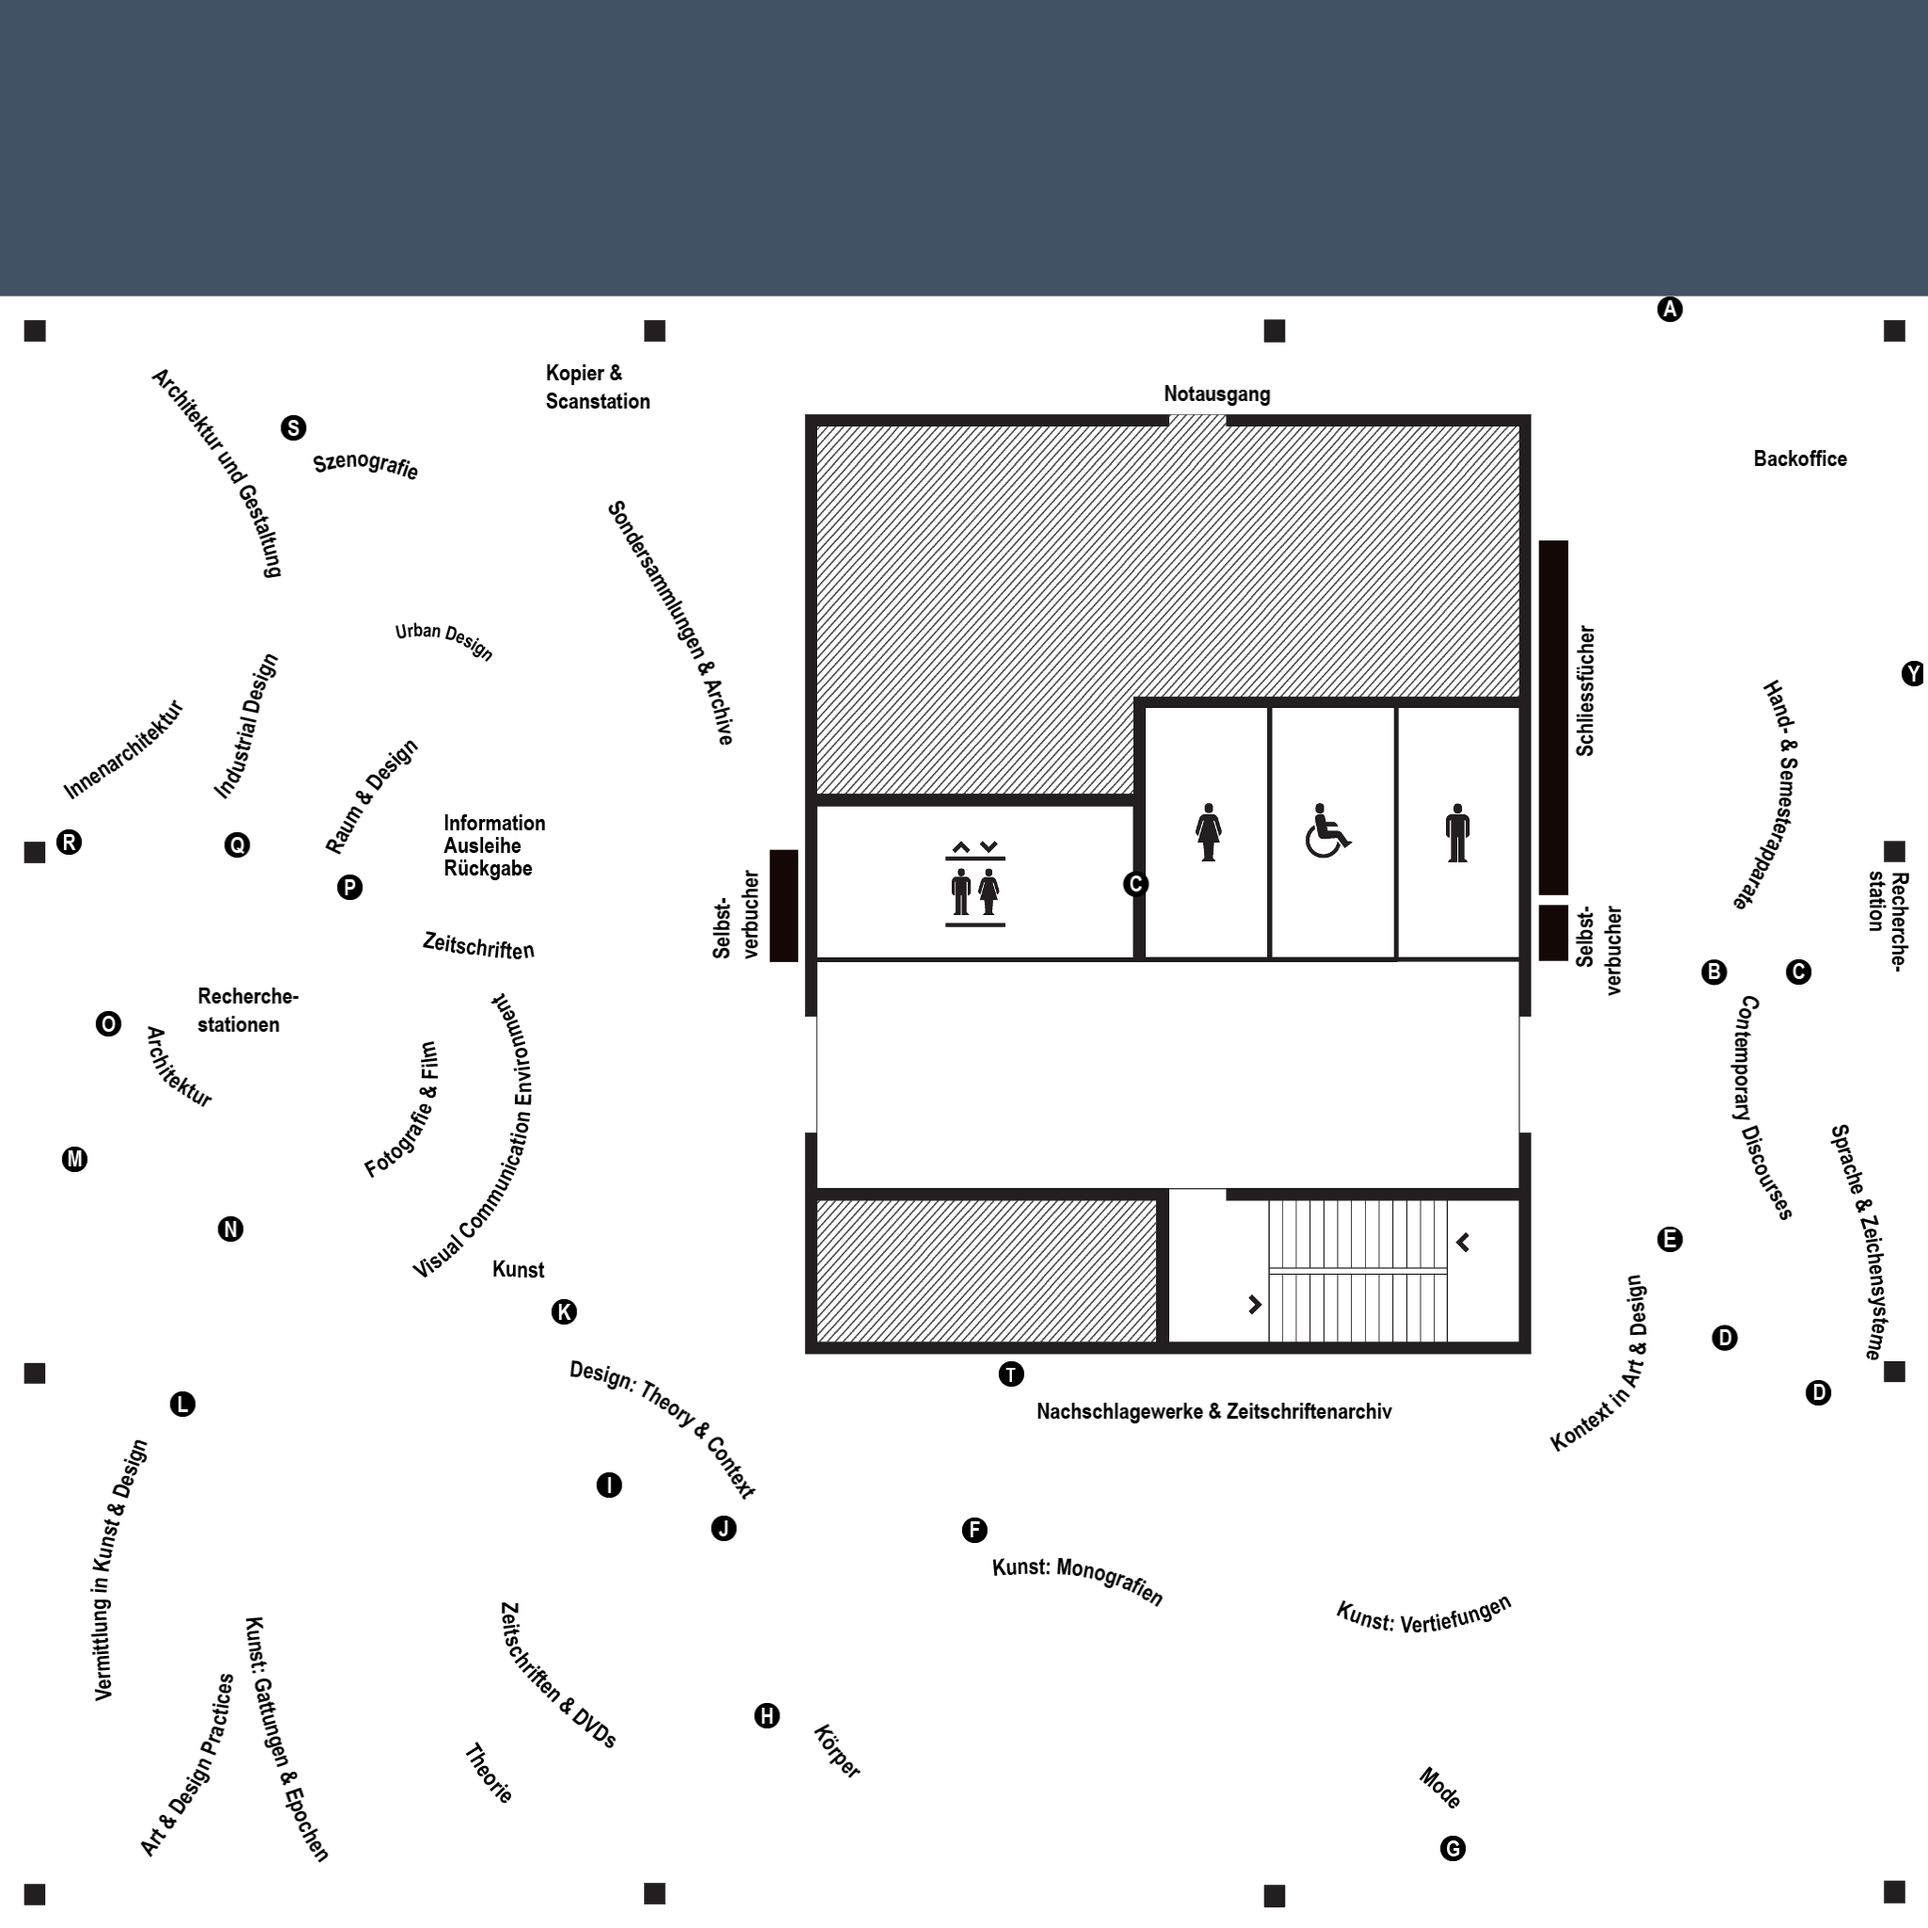
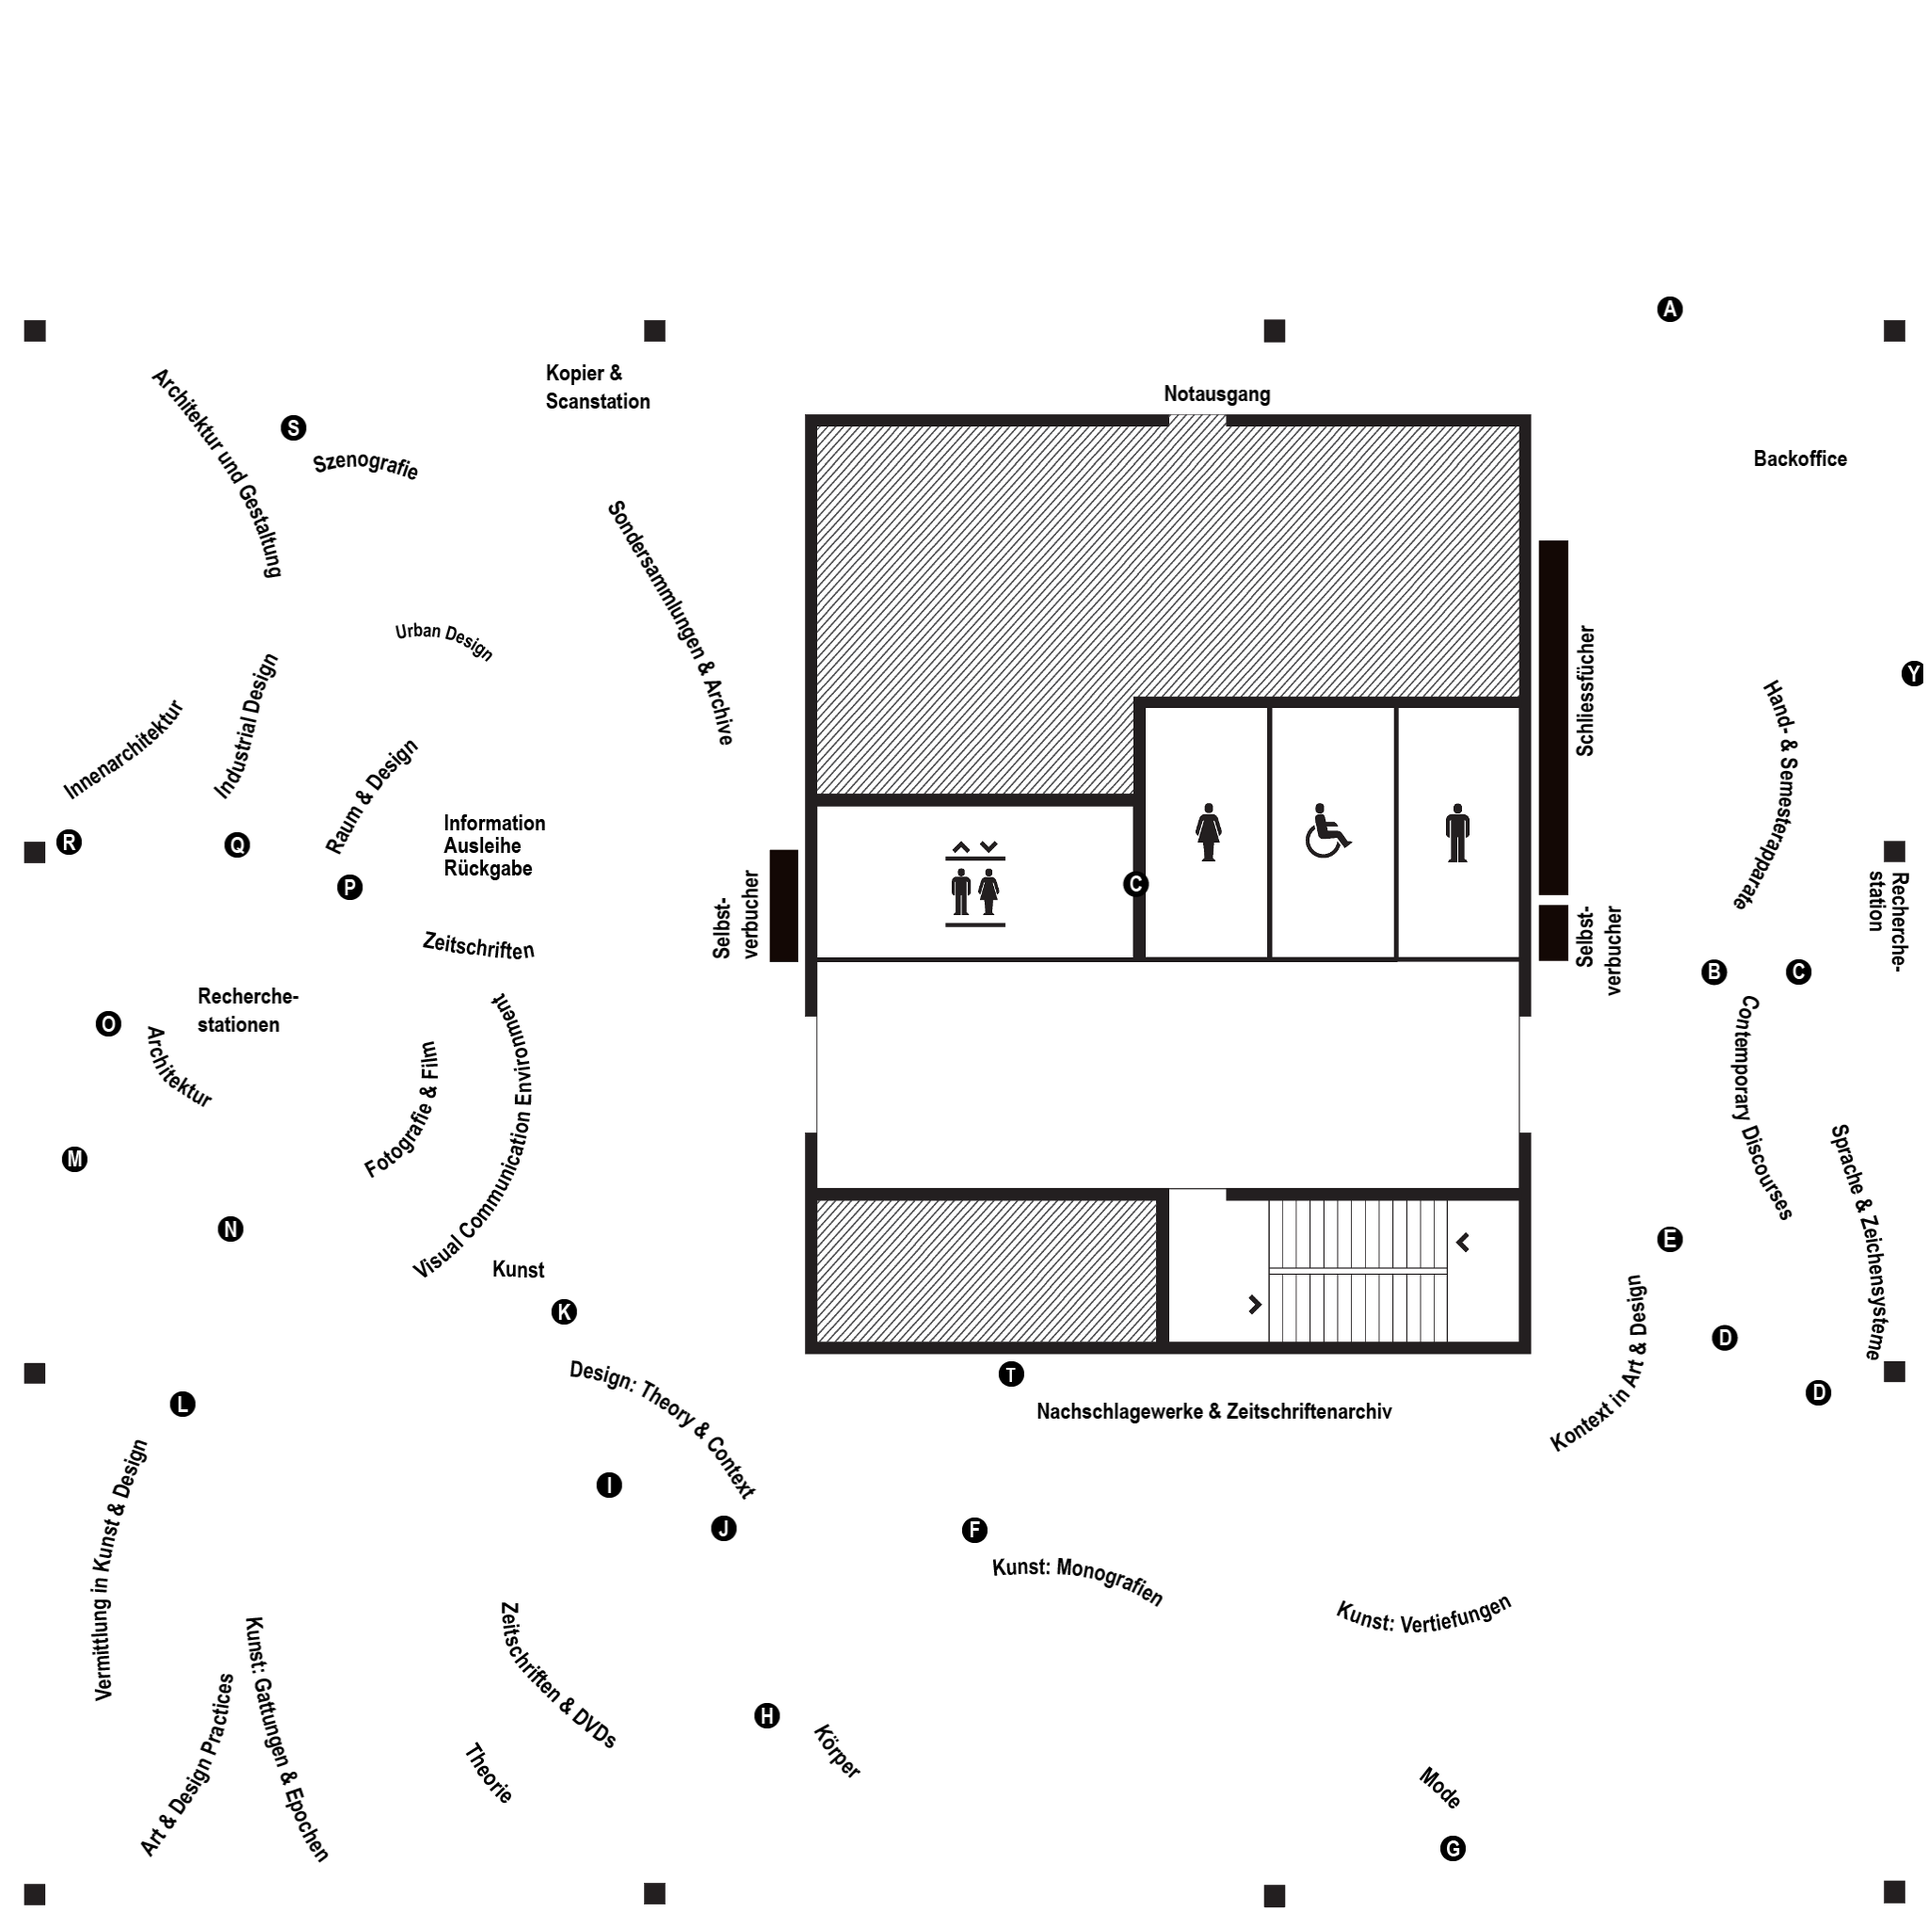
Add help modal keyboard shortcut and fix visibility

Changed region(s): [[0.0, 0.0, 1.0, 0.1562]]

diff --git a/pkg/web/static/js/modules/ui-controller.js b/pkg/web/static/js/modules/ui-controller.js
@@ -204,6 +204,12 @@ export class UIController {
                 if (typeof this.options.onCycleTheme === 'function') {
                     this.options.onCycleTheme();
                 }
+            } else if (e.key === 'h' || e.key === 'H' || e.key === '?') {
+                const isVisible = this.dom.helpModal &&
+                    !this.dom.helpModal.classList.contains('d-none') &&
+                    !this.dom.helpModal.classList.contains('hidden') &&
+                    this.dom.helpModal.style.display !== 'none';
+                this.showHelpModal(!isVisible);
             } else if (e.key === '/') {
                 e.preventDefault();
                 if (this.dom.searchInput) {
@@ -349,8 +355,10 @@ export class UIController {
     showHelpModal(show = true) {
         if (!this.dom.helpModal) return;
         if (show) {
+            this.dom.helpModal.style.display = 'flex';
             this.dom.helpModal.classList.remove('d-none', 'hidden');
         } else {
+            this.dom.helpModal.style.display = 'none';
             this.dom.helpModal.classList.add('d-none', 'hidden');
         }
     }

diff --git a/pkg/web/static/js/mediathek-core.js b/pkg/web/static/js/mediathek-core.js
@@ -150,7 +150,7 @@ class Mediathek {
 
         if (this.options.shadows) {
             this.renderer.shadowMap.enabled = true;
-            this.renderer.shadowMap.type = THREE.PCFSoftShadowMap;
+            this.renderer.shadowMap.type = THREE.PCFShadowMap;
         }
 
         // Clear existing canvas in container if any

diff --git a/pkg/web/static/scss/_modals.scss b/pkg/web/static/scss/_modals.scss
@@ -11,10 +11,15 @@
     background: rgba(0, 0, 0, 0.7);
     backdrop-filter: blur(6px);
     z-index: 200;
-    display: none;
+    display: flex;
     justify-content: center;
     align-items: center;
     padding: 20px;
+
+    &.hidden,
+    &.d-none {
+        display: none !important;
+    }
 }
 
 .modal-card {

diff --git a/pkg/web/static/scss/mediathek3d.css b/pkg/web/static/scss/mediathek3d.css
@@ -416,10 +416,13 @@ html, body {
   background: rgba(0, 0, 0, 0.7);
   backdrop-filter: blur(6px);
   z-index: 200;
-  display: none;
+  display: flex;
   justify-content: center;
   align-items: center;
   padding: 20px;
+}
+#help-modal.hidden, #help-modal.d-none {
+  display: none !important;
 }
 
 .modal-card {
